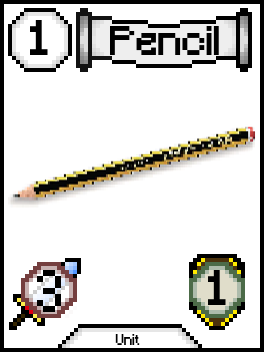
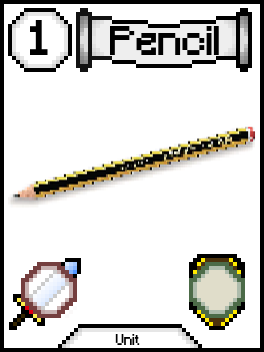
fix atk and health display

Changed region(s): [[0.1212, 0.75, 0.2424, 0.9062], [0.7879, 0.75, 0.8788, 0.875]]

diff --git a/public/javascripts/renderers/Card.js b/public/javascripts/renderers/Card.js
@@ -41,13 +41,13 @@ class Card {
        // textAlign(CENTER, CENTER);
         //text(this.name, this.x + CWIDTH / 2, this.y + CHEIGHT *2/ 3);
        // if (this.name != "Sticker" && this.name != "Clipper" && this.name != "Charger"){
-        if (this.type == 1){
-            textAlign(LEFT, CENTER);
-            text("HP: " + this.hp, this.x +45, this.y + CHEIGHT +15);
-            text("ATK: " + this.attack, this.x+5, this.y + CHEIGHT +15);
-        }
         imageMode(CENTER)
         image(Card.images[this.card_id],this.x+CWIDTH/2, this.y+ CHEIGHT/2,IMGSIZEX,IMGSIZEY);
+        if (this.type == 1){
+            textAlign(LEFT, CENTER);
+            text(this.hp, this.x +60, this.y + CHEIGHT -20);
+            text(this.attack, this.x+12, this.y + CHEIGHT -20);
+        }
     }
     getId() { return this.id;}
     getCost() { return this.cost;}
